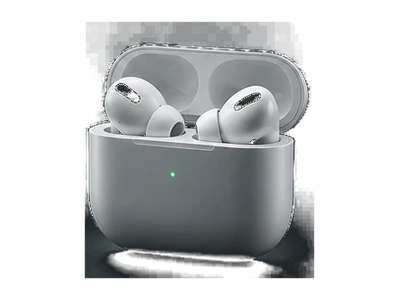
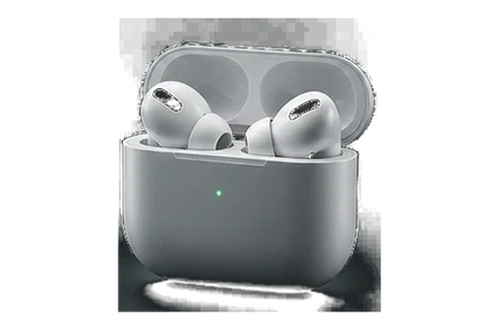
Add files via upload

Changed region(s): [[0.21, 0.03, 0.81, 0.96], [0.66, 0.81, 0.69, 0.84], [0.42, 0.57, 0.45, 0.6]]

diff --git a/public/style.css b/public/style.css
@@ -858,10 +858,10 @@ html,body{max-width:100%;overflow-x:hidden}
 /* ===== V109: category artwork + exact featured layout polish ===== */
 .categories{direction:rtl;grid-template-columns:repeat(8,minmax(0,1fr));gap:11px}
 .category-card{display:flex;flex-direction:column;align-items:center;justify-content:flex-start;text-align:center}
-.categories .category-card .category-art{display:grid;width:100%;height:82px;place-items:center;margin:0 auto 8px;border-radius:15px;background:transparent;overflow:hidden;border:1px solid transparent;box-shadow:none}
-.categories .category-card .category-art img{width:100%;height:100%;object-fit:contain;display:block;background:transparent;mix-blend-mode:normal;filter:drop-shadow(0 5px 8px rgba(0,0,0,.22));transition:transform .35s cubic-bezier(.2,.8,.2,1),filter .35s ease}
+.categories .category-card .category-art{display:grid;width:100%;height:100px;place-items:center;margin:0 auto 8px;border-radius:15px;background:transparent;overflow:hidden;border:1px solid transparent;box-shadow:none}
+.categories .category-card .category-art img{width:100%;height:100%;object-fit:contain;object-position:center center;display:block;background:transparent!important;mix-blend-mode:normal;filter:drop-shadow(0 5px 8px rgba(0,0,0,.22));transition:transform .35s cubic-bezier(.2,.8,.2,1),filter .35s ease;image-rendering:auto}
 .categories .category-card:hover .category-art img{transform:scale(1.055) translateY(-2px);filter:drop-shadow(0 7px 12px rgba(97,255,34,.12))}
-@media(max-width:700px){.categories .category-card .category-art{height:68px}}
+@media(max-width:700px){.categories .category-card .category-art{height:78px}}
 .categories .category-card span:not(.category-art){display:block;font-size:11px;font-weight:900;line-height:1.5;color:#eef4f1}
 .categories .category-card small{display:block;font-size:8px;line-height:1.5;color:#71807c;margin-top:3px}
 .categories .category-card:hover .category-art{border-color:rgba(97,255,34,.3);box-shadow:0 0 24px rgba(97,255,34,.08)}
@@ -1519,3 +1519,19 @@ html{scroll-behavior:auto}
 #categories .category-card .category-art img{object-fit:contain!important;object-position:center!important;background:transparent!important;border-radius:0!important;mix-blend-mode:normal!important;filter:drop-shadow(0 5px 8px rgba(0,0,0,.24));}
 #categories .category-card:hover .category-art img{transform:translateY(-2px) scale(1.055);filter:drop-shadow(0 7px 12px rgba(97,255,34,.13));}
 @media(max-width:600px){#categories .category-card .category-art{height:94px!important}}
+
+
+/* V195: refined category cutouts, consistent scale and placement */
+#categories .category-card .category-art{height:94px!important;display:grid;place-items:center;background:transparent!important;border:0!important;box-shadow:none!important;overflow:visible!important;margin-bottom:7px!important;padding:0!important}
+#categories .category-card .category-art img{width:100%!important;height:100%!important;object-fit:contain!important;object-position:center bottom!important;background:transparent!important;border:0!important;border-radius:0!important;mix-blend-mode:normal!important;filter:drop-shadow(0 4px 7px rgba(0,0,0,.2));}
+#categories .category-card .category-art img[src*="charger-real"]{transform:scale(1.04)}
+#categories .category-card .category-art img[src*="watch-real"]{transform:scale(1.03)}
+#categories .category-card .category-art img[src*="tablet-real"]{transform:scale(.98)}
+#categories .category-card .category-art img[src*="gaming-real"]{transform:scale(1.02)}
+#categories .category-card .category-art img[src*="mobile-real"],#categories .category-card .category-art img[src*="used-phone-promo"]{transform:scale(1.02)}
+#categories .category-card .category-art img[src*="discount-real"]{transform:scale(.96)}
+#categories .category-card .category-art img[src*="headphones-promo"]{transform:scale(1.02)}
+#categories .category-card:hover .category-art img{filter:drop-shadow(0 6px 11px rgba(97,255,34,.15));}
+@media(max-width:900px){#categories .category-card .category-art{height:clamp(84px,13vw,104px)!important}}
+@media(max-width:600px){#categories .category-card .category-art{height:98px!important}}
+@media(max-width:360px){#categories .category-card .category-art{height:86px!important}}

diff --git a/README.md b/README.md
@@ -13,3 +13,6 @@ Deploy this ZIP to the existing `mrmobilestoree` Cloudflare Worker. No database 
 ## V193 category image layout
 - Category artwork uses consistent contain framing, responsive card dimensions, and dark-theme blending to reduce visible image backplates without cropping products.
 - Preserves category links and existing app behavior.
+
+
+V196: refined transparent category artwork by trimming transparent padding and normalizing image canvas dimensions; category image area adjusted responsively. Original V195 archive preserved separately.
